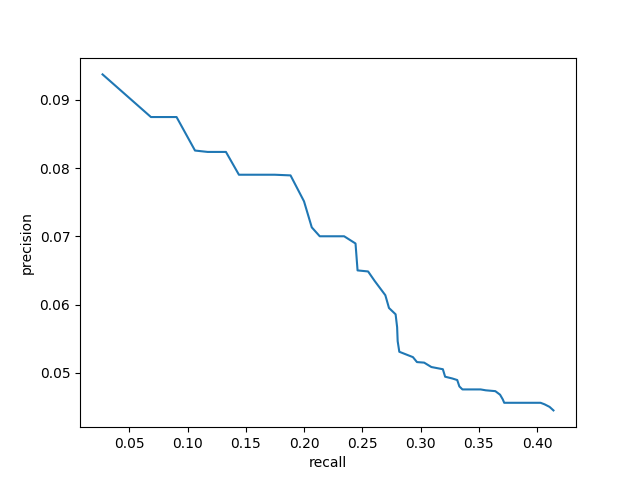
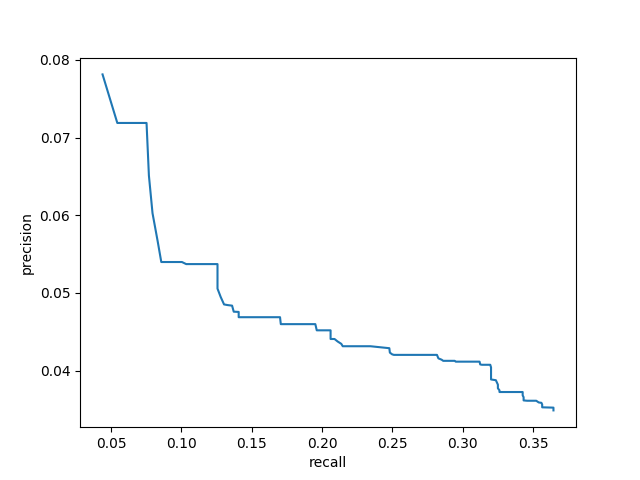
bug fixes + doubdtful updates

diff --git a/documents.py b/documents.py
@@ -7,12 +7,16 @@ import pickle
 class SparseWordVector:
     def __init__(self, v = {}):
         self.v = v
+        self._norm = -1
 
     def __setitem__(self, k, v):
         self.v[k] = v
+        self._norm = -1
 
     def norm(self):
-        return math.sqrt(sum([v * v for k, v in self.v.items()]))
+        if(self._norm == -1) :
+            self._norm = math.sqrt(sum([v * v for k, v in self.v.items()]))
+        return self._norm
 
     def cosSimilarity(self, other):
         v1 = self.v
@@ -20,7 +24,7 @@ class SparseWordVector:
         v1_dims = set(v1.keys())
         v2_dims = set(v2.keys())
         common_dims = v1_dims.intersection(v2_dims)
-        num = sum([float(v1[dim]) * float(v2[dim]) for dim in common_dims])
+        num = sum([v1[dim] * v2[dim] for dim in common_dims])
         return num / (self.norm() * other.norm())
 
 
@@ -261,11 +265,11 @@ class CACMDocument(Document):
             identifier = int(doc_parts[0])
             for element in doc_parts:
                 if element.startswith('T'):
-                    title = element.split('\n')[1]
+                    title = ''.join(element.split('\n')[1:])
                 elif element.startswith('W'):
-                    summary = element.split('\n')[1]
+                    summary = ''.join(element.split('\n')[1:])
                 elif element.startswith('K'):
-                    keywords = element.split('\n')[1]
+                    keywords = ''.join(element.split('\n')[1:])
         return CACMDocument(identifier, title, summary, keywords)
 
 

diff --git a/search_models.py b/search_models.py
@@ -8,7 +8,7 @@ class VectorModel:
     def __init__(self, method):
         self.method = method
 
-    def search(self, str, inv_index, tokenizer, normalizer):
+    def search(self, input, inv_index, tokenizer, normalizer):
         # let us first define which w_d,t to use depending on method
 
         if self.method == 'tf-idf':
@@ -27,8 +27,9 @@ class VectorModel:
             raise Exception("Can not use method " + self.method + " as it is not present in input file")
 
         # let us build the query vector
-        gen = tokenizer.tokenize(str, normalizer)
+        gen = tokenizer.tokenize(input, normalizer)
         tokens = [token for token in gen]
+        print(tokens)
 
         query_vector = SparseWordVector()
         counter = collections.Counter(tokens)
@@ -64,6 +65,12 @@ class VectorModel:
 
         similarities = {doc_id: doc_vector.cosSimilarity(query_vector) for doc_id, doc_vector in filtered_doc_vectors.items()}
         sorted_doc_ids = sorted(similarities, key=lambda k:similarities[k], reverse=True)
+
+        for id in sorted_doc_ids[:10]:
+            print("id: " + str(id))
+            print("sim: " + str(similarities[id]))
+            cmon = set(query_vector.v.keys()).intersection(set(filtered_doc_vectors[id].v))
+            print("cmon: " + str(cmon))
 
         return sorted_doc_ids
 

diff --git a/performance_test.py b/performance_test.py
@@ -98,10 +98,17 @@ with open(docRetreiveFile, 'rb') as f:
     avgRecallsAtRank = []
     avgPrecisionsAtRank = []
 
-    for rank in range(1,100, 2):
-        results = {qid:inv_index.search(query, model, tokenizer, normalizer)[:rank]
-                    for qid,query in queries.queries.items()}
+    # inv_index.search(queries.queries[1], model, tokenizer, normalizer)
+    # print(qrels.queries_results[1])
+
+
+    all_results = {qid:inv_index.search(query, model, tokenizer, normalizer)
+                for qid,query in queries.queries.items()}
+
+    for rank in range(1,100):
         
+        results = {qid: ar[:rank] for qid, ar in all_results.items()}
+
         right_results = collections.defaultdict(list)
         for qid, found_docs in results.items():
             for found_doc in found_docs:
